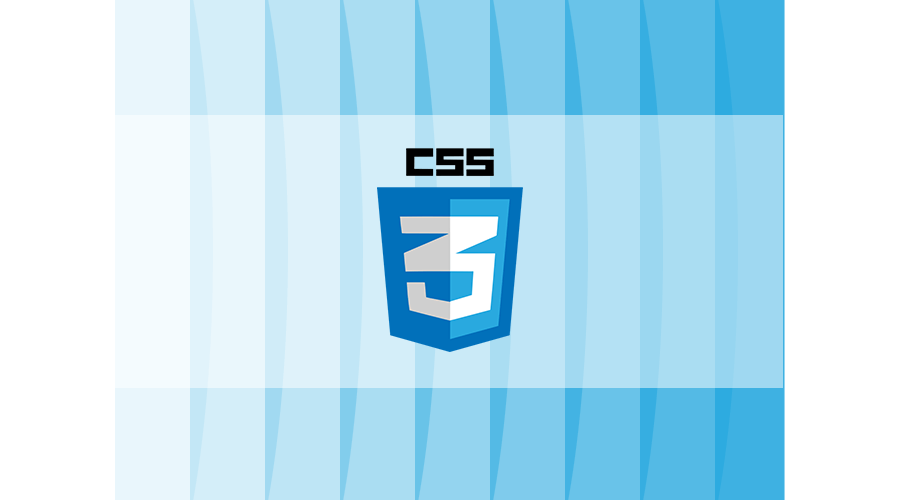
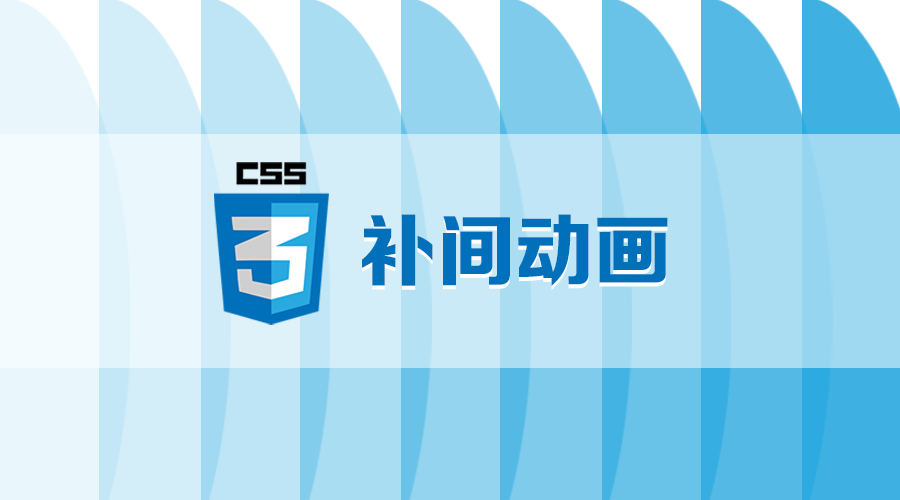
博文：CSS3动画系列文章标题及图片统一

diff --git a/source/_posts/2016-05-06-Guide-To-Tween-Animation.md b/source/_posts/2016-05-06-Guide-To-Tween-Animation.md
@@ -1,4 +1,4 @@
-title: CSS3 动画开发指南之补间动画
+title: CSS3动画之补间动画
 subtitle: 想要动画生动自然吗？想要动画不卡顿吗？不需要998，不需要668，只要点进来，你就可以get到这些技巧。
 cover: Tingglelaoo/20160506/TweenAnimation_cover.png
 tags:

diff --git a/source/_posts/2016-05-05-CSS3-3D-Animation.md b/source/_posts/2016-05-05-CSS3-3D-Animation.md
@@ -1,6 +1,6 @@
 title: CSS3动画之3D动画
 subtitle: CSS3动画开发指南第三弹
-cover: http://7xt3gj.com1.z0.glb.clouddn.com/Flp_hXOIGcrDdf-X2zLfak5gtnRd
+cover: http://7xt3gj.com1.z0.glb.clouddn.com/FrYNVc2GU23S0lHWu4xwzQtd7PR5
 tags:
   - CSS3
   - 动画
